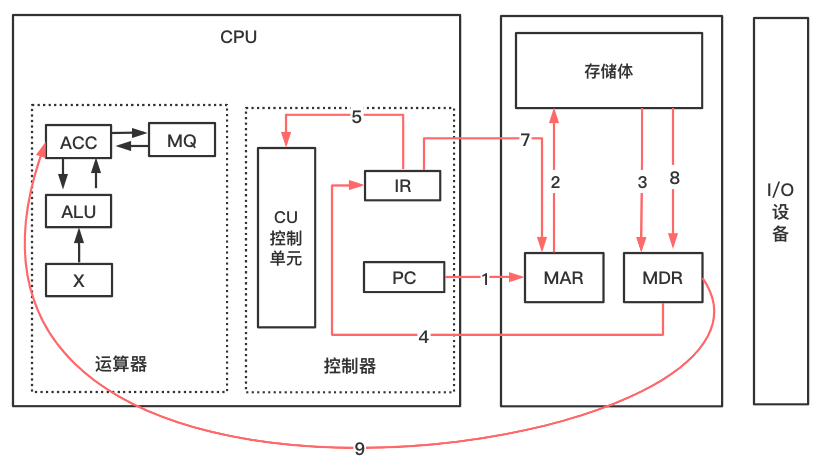
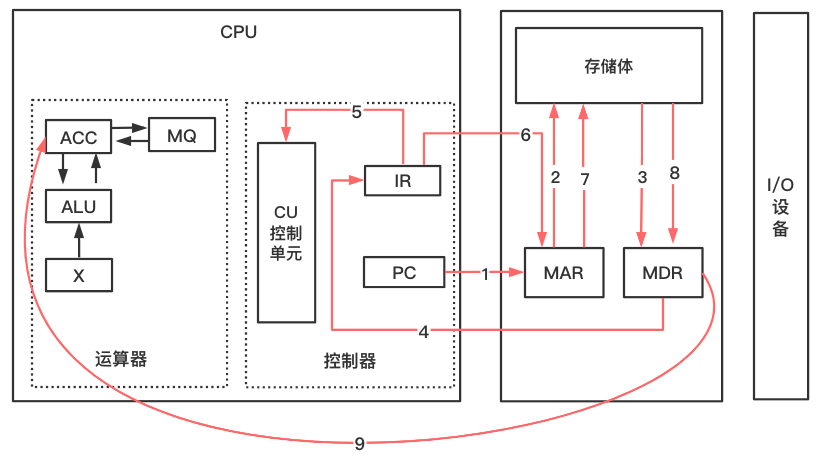
update the base content

diff --git a/base/01-计算机系统概论.md b/base/01-计算机系统概论.md
@@ -1,6 +1,4 @@
-# 计算机组成原理
-
-计算机简介
+# 计算机系统概论
 
 
 
@@ -48,7 +46,9 @@
 
 ## 1.2计算机基本组成
 
-### 冯诺依曼计算机特点
+### 冯诺依曼计算机
+
+#### 冯诺依曼计算机特点
 
 - 由5大部分组成
 - 指令和数据以同等地位存于存储器，可按地址寻访
@@ -69,11 +69,11 @@
 
 
 
-### 冯诺依曼硬件框图
+#### 冯诺依曼硬件框图
 
 ![冯诺依曼硬件框图](img/冯诺依曼硬件框图.png)
 
-### 冯·诺伊曼瓶颈
+#### 冯·诺伊曼瓶颈
 
 **CPU速度远大于存储器读写速率**
 
@@ -205,12 +205,10 @@
 
 ![存储体结构](img/存储体结构.png)
 
-> 存储体 - 存储单元 - 存储元件（0/1）
->
-> 大楼  -  房间    - 床位 （有人/无人）
-
 ##### 存储单元
-存放一串二进制代码
+- 存放一串二进制代码
+- 存储单元是**按地址寻访的**
+- 每一个存储单元**赋予一个地址**
 
 ##### 存储字
 
@@ -220,12 +218,9 @@
 
 存储单元中二进制代码的位数
 
-
-
-存储单元是**按地址寻访的**
-
-每一个存储单元**赋予一个地址**
-
+> 存储体 - 存储单元 - 存储元件（0/1）
+>
+> 大楼  -  房间    - 床位 （有人/无人）
 
 
 #### MAR
@@ -252,6 +247,9 @@
 ### 运算器基本组成
 
 ![运算器基本组成](img/运算器基本组成.png)
+
+> 运算器的核心，通常是组合电路，所以一般在其输入端有 两个寄存器。其中一个就是 ACC 累加器 (Accumulator)，另一个是称为 X 的 数据寄存器；
+> 因为乘法得出的结果的长度是操作数的两倍，多出来的长度存放在 MQ 寄存器中，运算结果保存在 ACC 中。
 
 ### 运算器进行运算
 
@@ -328,7 +326,7 @@
 
 ![控制器基本组成](img/控制器基本组成.png)
 
-- **PC (Program Counter) 程序计数器** 它指向吓一跳将被取出用于执行的指令
+- **PC (Program Counter) 程序计数器** 它指向下一条将被取出用于执行的指令
 - **IR(Instruction Register) 指令寄存器** 存放着当前正在执行的指令
 
 
@@ -339,9 +337,133 @@
 
 ![主机完成一条指令-以取数指令为例](img/主机完成一条指令-以取数指令为例.png)
 
+**取指令 步骤1234**
 
+1.PC将指令的地址送给MAR
+
+2.MAR送给存储体
+
+3.在控制器控制下，存储体把指定存储单元中保存的取数指令取出来送入到MDR中
+
+4.将MDR中的指令送入到IR中（因为IR保存当前执行的指令）
+
+**分析指令 步骤5**
+
+5.将IR指令寄存器中的操作码送入到CU单元中进行分析
+
+5.1 CU转化为电信号控制执行
+
+**执行 步骤6789**
+
+6.IR中保存当前这条指令的操作数地址，所以将IR的地址码取出，送入MAR。
+
+7.由MAR送入存储体
+
+8.在控制器控制下，存储体把指定存储单元中保存的取数指令的要取的数取出来送入到MDR中
+
+9.由MDR中送入到ACC寄存器中
+
+
+
+##### 以存数指令为例
+
+![主机完成一条指令-以存数指令为例](img/主机完成一条指令-以存数指令为例.png)
+
+**取指令 步骤1234**
+
+1.PC将指令的地址送给MAR
+
+2.MAR送给存储体
+
+3.在控制器控制下，存储体把指定存储单元中保存的取数指令取出来送入到MDR中
+
+4.将MDR中的指令送入到IR中（因为IR保存当前执行的指令）
+
+**分析指令 步骤5**
+
+5.将IR指令寄存器中的操作码送入到CU单元中进行分析
+
+5.1 CU转化为电信号控制执行
+
+**执行 步骤6789**
+
+6.IR中保存当前这条指令的操作数地址，所以将IR的地址码取出，送入MAR。
+
+7.由MAR送入存储体
+
+8.在控制器控制下，将ACC寄存器中的数据送入到MDR中
+
+9.由MDR中送入到存储体中
+
+
+
+> **再谈$ax^2 + bx + c$程序的运行过程**
+>
+> - 将程序通过输入设备送至计算机
+> - 程序首地址 —> PC
+> - 启动程序运行
+> - 取指令 PC —> MAR —> M —> MDR —> IR,(PC)+1 —> PC
+> - 分析指令 IR —> CU
+> - 执行指令 IR —> MAR —> M —> MDR —> ACC
+> - ...
+> - 打印结果
+> - 停机
+
+
+
+## 1.3 计算机硬件主要技术指标
+
+### 1.机器字长
+
+CPU 一次能处理数据的位数与CPU中的**寄存器位数**有关
+
+### 2.运算速度
+
+- **主频**（与运算速度没有直接关系）
+- **核数**（与运算速度没有直接关系），每个核支持的线程数
+- **吉普森法** 加权平均值 用指令执行速度衡量 分为指令的静态使用频率，动态使用频率
+- **CPI** 执行一条指令所需时钟周期数
+- **IPC** 一个时钟周期能完成多少个指令。用于超流水线，超标量的计算机
+- **MIPS** 每秒执行百万条指令
+- **FLOPS** 每秒浮点运算次数
+
+### 3.存储容量
+
+存放二进制信息的总位数
+
+- **主存容量** 
+
+**存储单元个数 x 存储字长**
+
+> 例如： 
+>
+> | MAR  | MDR  |       容量        |
+> | :--: | :--: | :---------------: |
+> |  10  |  8   |  1K(2^10) X 8位   |
+> |  16  |  32  | 64K（2^16）x 32位 |
+
+**字节数**
+
+> 如 2^13bit = 1KB
+>
+> 2^21bit = 256KB
+
+- **辅存容量**
+
+字节数 80GB
+
+
+
+## 参考
+**[书籍]**
+
+1.（荷）Andrew S.Tanenbaum,（美）Todd Austin.计算机组组成结构化方法 Structured Computer Organization[M].机械工业出版社:北京,2014.7
+
+**[网站]**
 
 https://blog.csdn.net/u014470361/article/details/79774331
+
+https://blog.csdn.net/qq_43763494/article/details/104370125
 
 [https://zh.wikipedia.org/wiki/%E5%93%88%E4%BD%9B%E7%BB%93%E6%9E%84](https://zh.wikipedia.org/wiki/哈佛结构)
 
